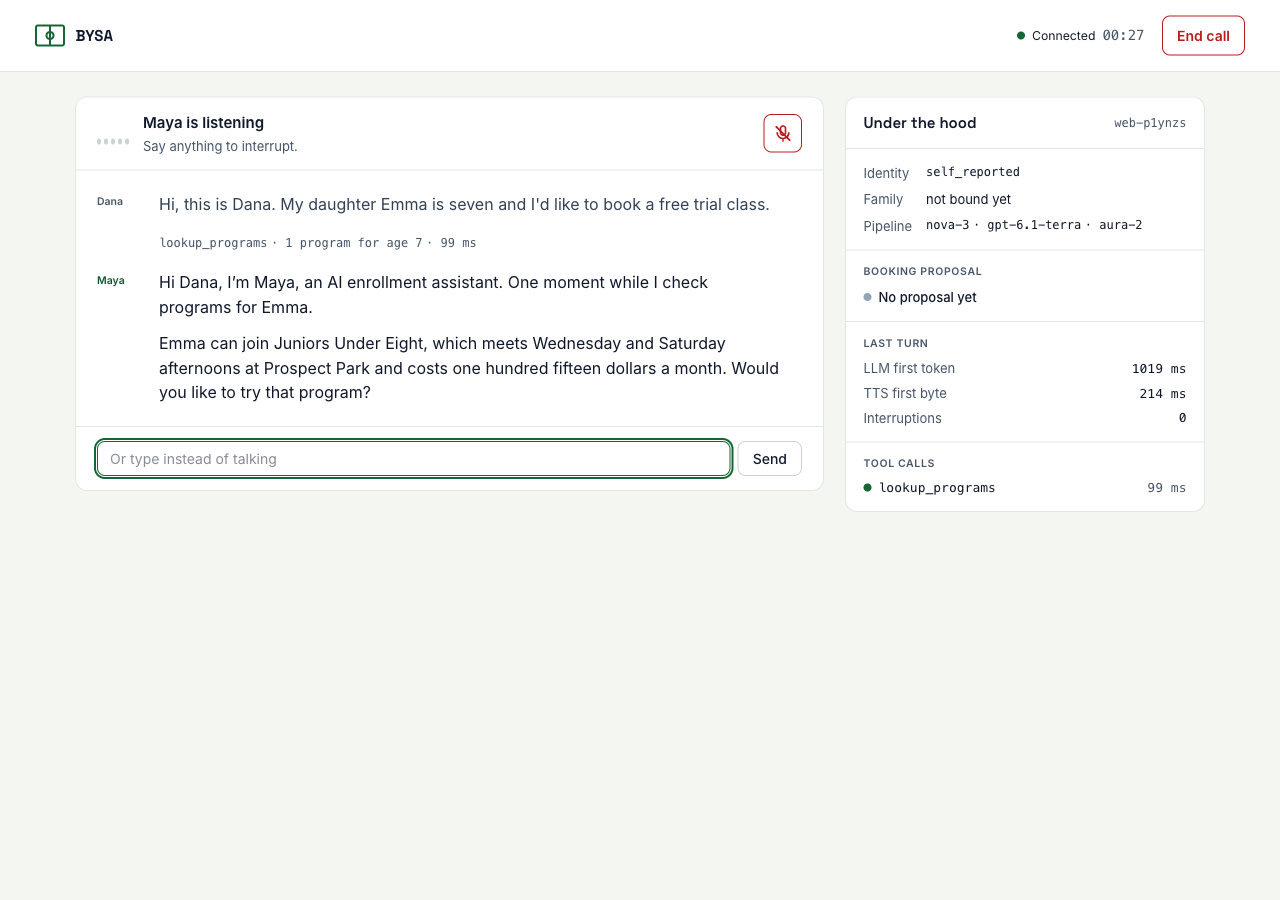
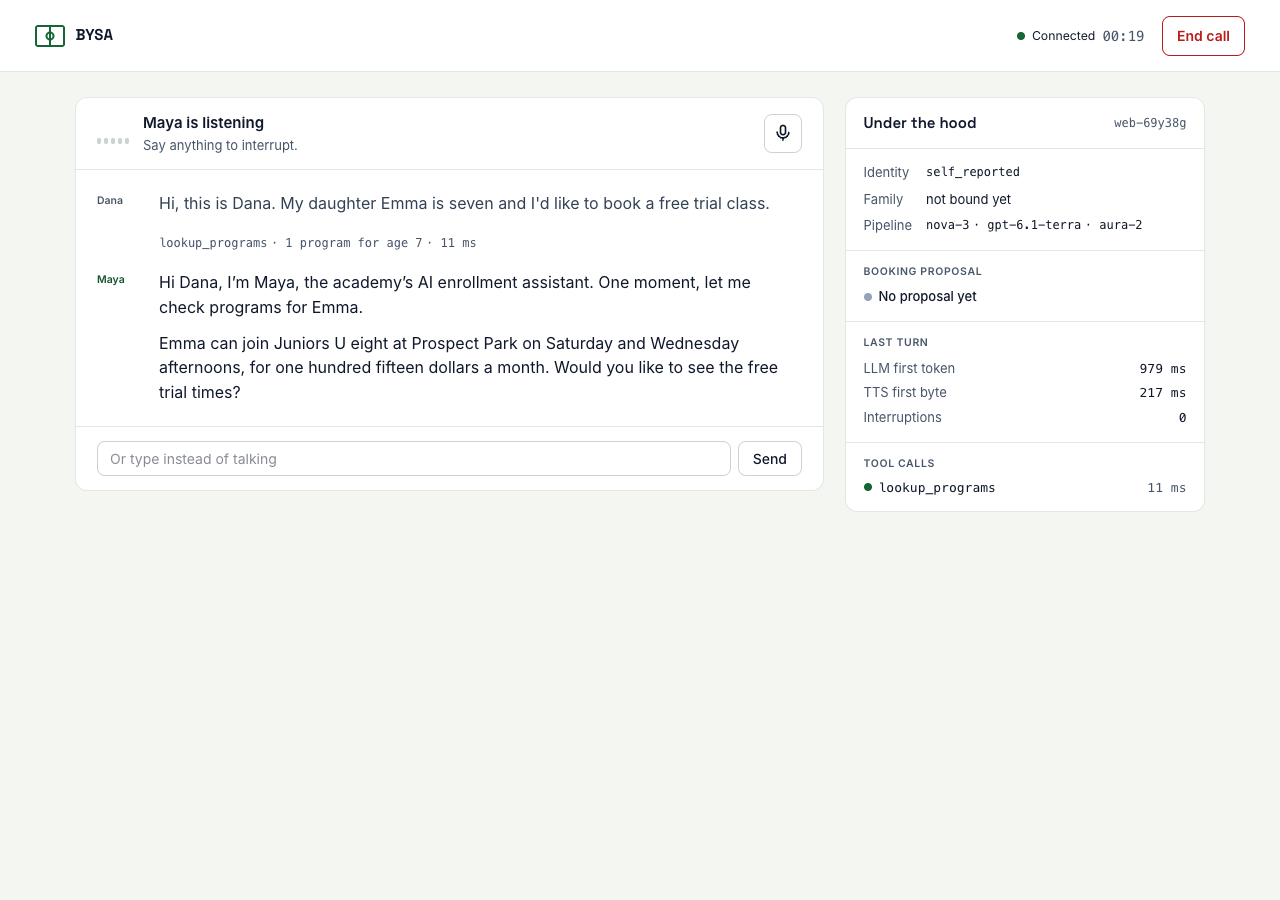
docs(e2e): reshoot scenario B with a fake mic

diff --git a/docs/e2e-2026-11-07/REPORT.md b/docs/e2e-2026-11-07/REPORT.md
@@ -17,6 +17,9 @@
   describes the first run; ids, durations and exact wording in the new
   screenshots differ (for example B is BK-229C749D). The Playwright browser
   had no microphone, so the mute button shows its muted state.
+- Scenario B was reshot a second time with a fake silent microphone, so its
+  mute button shows the normal mic. New call: BK-68E0A320, 01:17, phone
+  (718) 555-0174. Screen 05 is 1280x940 so no transcript turn is cut off.
 
 ## Result table
 
